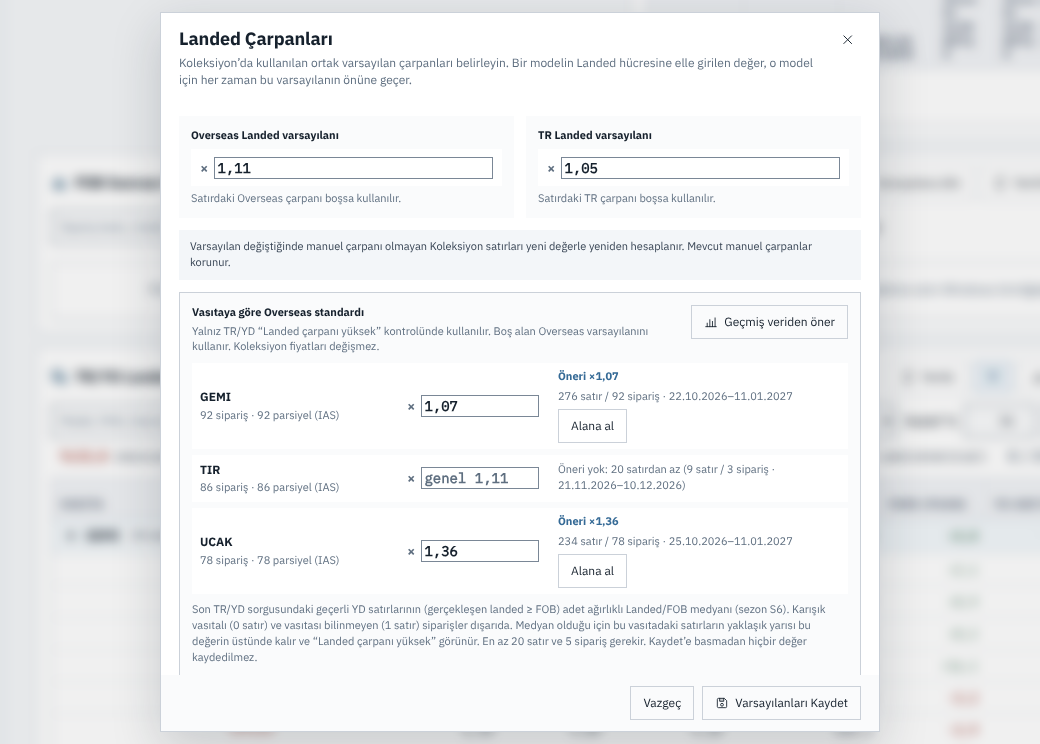
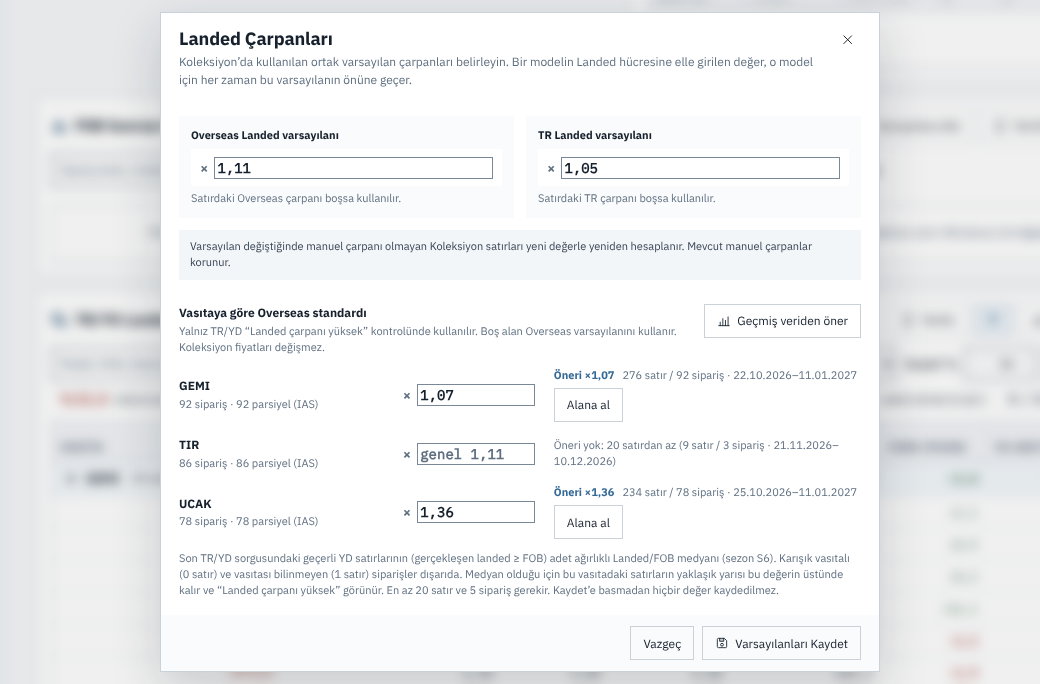
Landed çarpanları penceresi: görünüm tanımları manifest sahibine (ui-components.css)
app.css yalnız yerleşim; ekran görüntüleri son kodla yenilendi.

Claude-Session: https://claude.ai/code/session_01HKcjmiSx6P8sWSPXNgnPcn

diff --git a/resources/app/public/app.css b/resources/app/public/app.css
@@ -1507,23 +1507,19 @@ tr:hover .quotationOptions:not(.hasOptions),tr:focus-within .quotationOptions:no
 .landedMultiplierInput{height:37px;display:flex;align-items:center;gap:6px;padding:0 9px;}.landedMultiplierInput input{min-width:0;width:100%;}
 .landedMultiplierNotice{grid-column:1/-1;padding:9px 11px;}
 .landedMultiplierFoot{display:flex;align-items:center;justify-content:flex-end;gap:8px;padding:11px 18px;}.landedMultiplierFoot>span{margin-right:auto;}
-/* Vasıtaya göre Overseas standardı (TR/YD Landed Avantaj). Gövde kaydırılır; başlık ve alt çubuk sabit kalır. */
+/* Vasıtaya göre Overseas standardı (TR/YD Landed Avantaj). Gövde kaydırılır; başlık ve alt çubuk sabit kalır.
+   Yalnız yerleşim; görünüm ui-components.css (manifest) içindedir. */
 .landedMultiplierCard{width:min(720px,calc(100vw - 24px));display:flex;flex-direction:column;}
 .landedMultiplierBody{overflow:auto;min-height:0;}
-.landedVehicleSection{grid-column:1/-1;display:grid;gap:8px;padding:12px;border:1px solid var(--ui-group-divider);border-radius:var(--ui-radius);background:var(--ui-surface-soft);}
+.landedVehicleSection{grid-column:1/-1;display:grid;gap:8px;padding:12px 0 0;}
 .landedVehicleHead{display:flex;align-items:flex-start;gap:10px;}.landedVehicleHead>div{display:grid;gap:3px;min-width:0;}
-.landedVehicleHead strong{font-size:var(--ui-font-2xs,12px);color:var(--ui-text);}.landedVehicleHead small{font-size:var(--ui-font-2xs,11px);color:var(--ui-text-muted);line-height:1.4;}
 .landedVehicleHead .tbtn{margin-left:auto;flex:none;}
 .landedVehicleList{display:grid;gap:6px;}
-.landedVehicleRow{display:grid;grid-template-columns:minmax(120px,1fr) 150px minmax(170px,1.5fr);align-items:center;gap:10px;padding:6px 8px;border-radius:var(--ui-radius);background:var(--ui-surface);}
-.landedVehicleName{display:grid;gap:2px;min-width:0;}.landedVehicleName strong{font-size:var(--ui-font-xs,12px);color:var(--ui-text);overflow:hidden;text-overflow:ellipsis;white-space:nowrap;}
-.landedVehicleName small,.landedVehicleSuggestion small{font-size:var(--ui-font-2xs,11px);color:var(--ui-text-muted);}
+.landedVehicleRow{display:grid;grid-template-columns:minmax(120px,1fr) 150px minmax(170px,1.5fr);align-items:center;gap:10px;padding:4px 0;}
+.landedVehicleName{display:grid;gap:2px;min-width:0;}.landedVehicleName strong{overflow:hidden;text-overflow:ellipsis;white-space:nowrap;}
 .landedVehicleRow .landedMultiplierInput{height:32px;}
-.landedVehicleSuggestion{display:flex;flex-wrap:wrap;align-items:center;gap:4px 8px;min-width:0;font-size:var(--ui-font-2xs,11px);}
-.landedVehicleSuggestionValue{font-weight:800;color:var(--ui-accent);}
-.landedVehicleSuggestionThin{color:var(--ui-text-muted);}
+.landedVehicleSuggestion{display:flex;flex-wrap:wrap;align-items:center;gap:4px 8px;min-width:0;}
 .landedVehicleSuggestion .tbtn{height:24px;padding:0 8px;}
-.landedVehicleEmpty,.landedVehicleSuggestNote{font-size:var(--ui-font-2xs,11px);color:var(--ui-text-muted);line-height:1.45;}
 @media(max-width:620px){.landedVehicleSection{grid-column:1}.landedVehicleRow{grid-template-columns:1fr 110px}.landedVehicleSuggestion{grid-column:1/-1}}
 @media(max-width:620px){.landedMultiplierBody{grid-template-columns:1fr}.landedMultiplierNotice{grid-column:1}.landedMultiplierCard{width:calc(100vw - 12px)}}
 .modelConnAdvanced{padding:8px 10px;}

diff --git a/resources/app/public/ui-components.css b/resources/app/public/ui-components.css
@@ -2905,6 +2905,14 @@ html[data-ui-system="manifest"] .landedMultiplierFoot {background:var(--ui-surfa
 }
 html[data-ui-system="manifest"] .landedMultiplierFoot>span {color:var(--ui-danger) !important;font-size:var(--ui-font-2xs) !important
 }
+html[data-ui-system="manifest"] .landedVehicleHead strong,html[data-ui-system="manifest"] .landedVehicleName strong {font-size:var(--ui-font-xs) !important;font-weight:800 !important;color:var(--ui-text) !important
+}
+html[data-ui-system="manifest"] .landedVehicleHead small,html[data-ui-system="manifest"] .landedVehicleName small,html[data-ui-system="manifest"] .landedVehicleSuggestion small,html[data-ui-system="manifest"] .landedVehicleEmpty,html[data-ui-system="manifest"] .landedVehicleSuggestNote,html[data-ui-system="manifest"] .landedVehicleSuggestionThin {font-size:var(--ui-font-2xs) !important;color:var(--ui-text-muted) !important;line-height:1.45
+}
+html[data-ui-system="manifest"] .landedVehicleSuggestion {font-size:var(--ui-font-2xs) !important
+}
+html[data-ui-system="manifest"] .landedVehicleSuggestionValue {font-weight:800 !important;color:var(--ui-accent) !important
+}
 html[data-ui-system="manifest"] .modelConnAdvanced>summary,html[data-ui-system="manifest"] .modelConnFoldable>summary {font-size:var(--ui-font-xs) !important;font-weight:650 !important;color:var(--ui-text-muted) !important
 }
 html[data-ui-system="manifest"] .backupIntro {color:var(--ui-text-muted) !important;font-size:var(--ui-font-xs) !important;line-height:1.45
